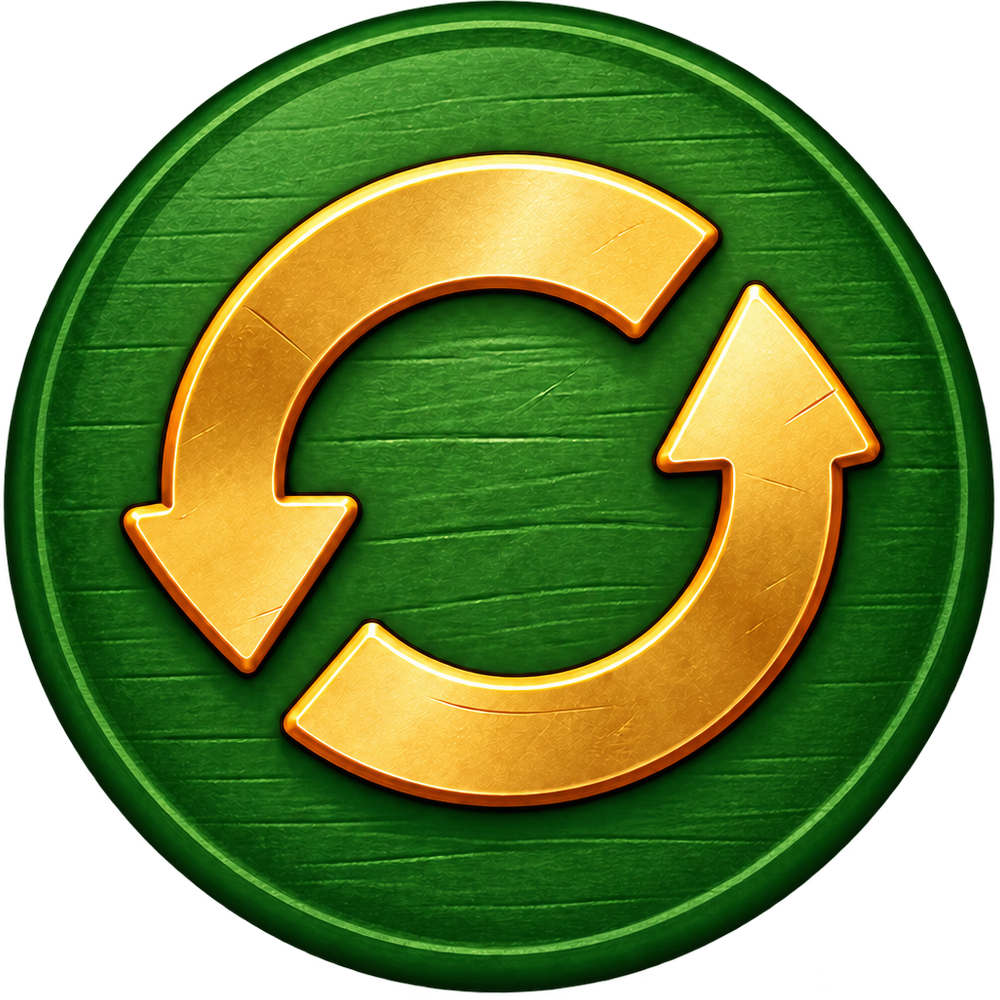
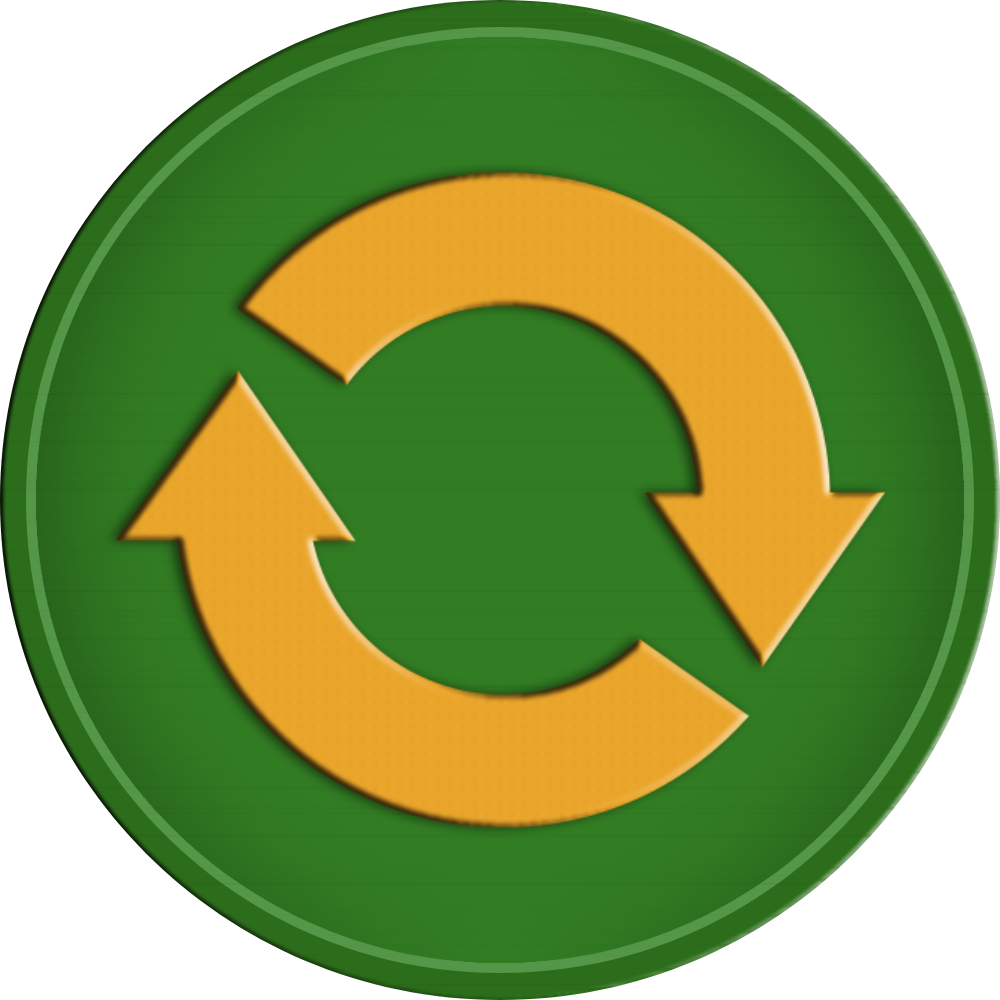
Refactor: changing spin result art and fixing position to background

diff --git a/src/game/config/GameLayout.ts b/src/game/config/GameLayout.ts
@@ -36,7 +36,7 @@ export const GameLayout = {
     },
     betLabel: { x: x(850), y: y(1560), fontSize: '24px', color: '#ffffff' },
     betValue: { x: x(910), y: y(1600), fontSize: '38px', color: '#ffffff' },
-    result: { x: centerX, y: y(1460) }, spinButton: { x: centerX, y: y(1578), width: horizontal(175), height: vertical(175) },
+    result: { x: centerX, y: y(1460) }, spinButton: { x: x(535), y: y(1578), width: horizontal(170), height: vertical(170) },
     autoSpinButton: { x: x(215), y: y(1775), width: horizontal(275), height: vertical(135) },
     turboButton: { x: x(875), y: y(1775), width: horizontal(285), height: vertical(150) },
     historyButton: { x: centerX, y: y(1775), width: horizontal(350), height: vertical(100) },
